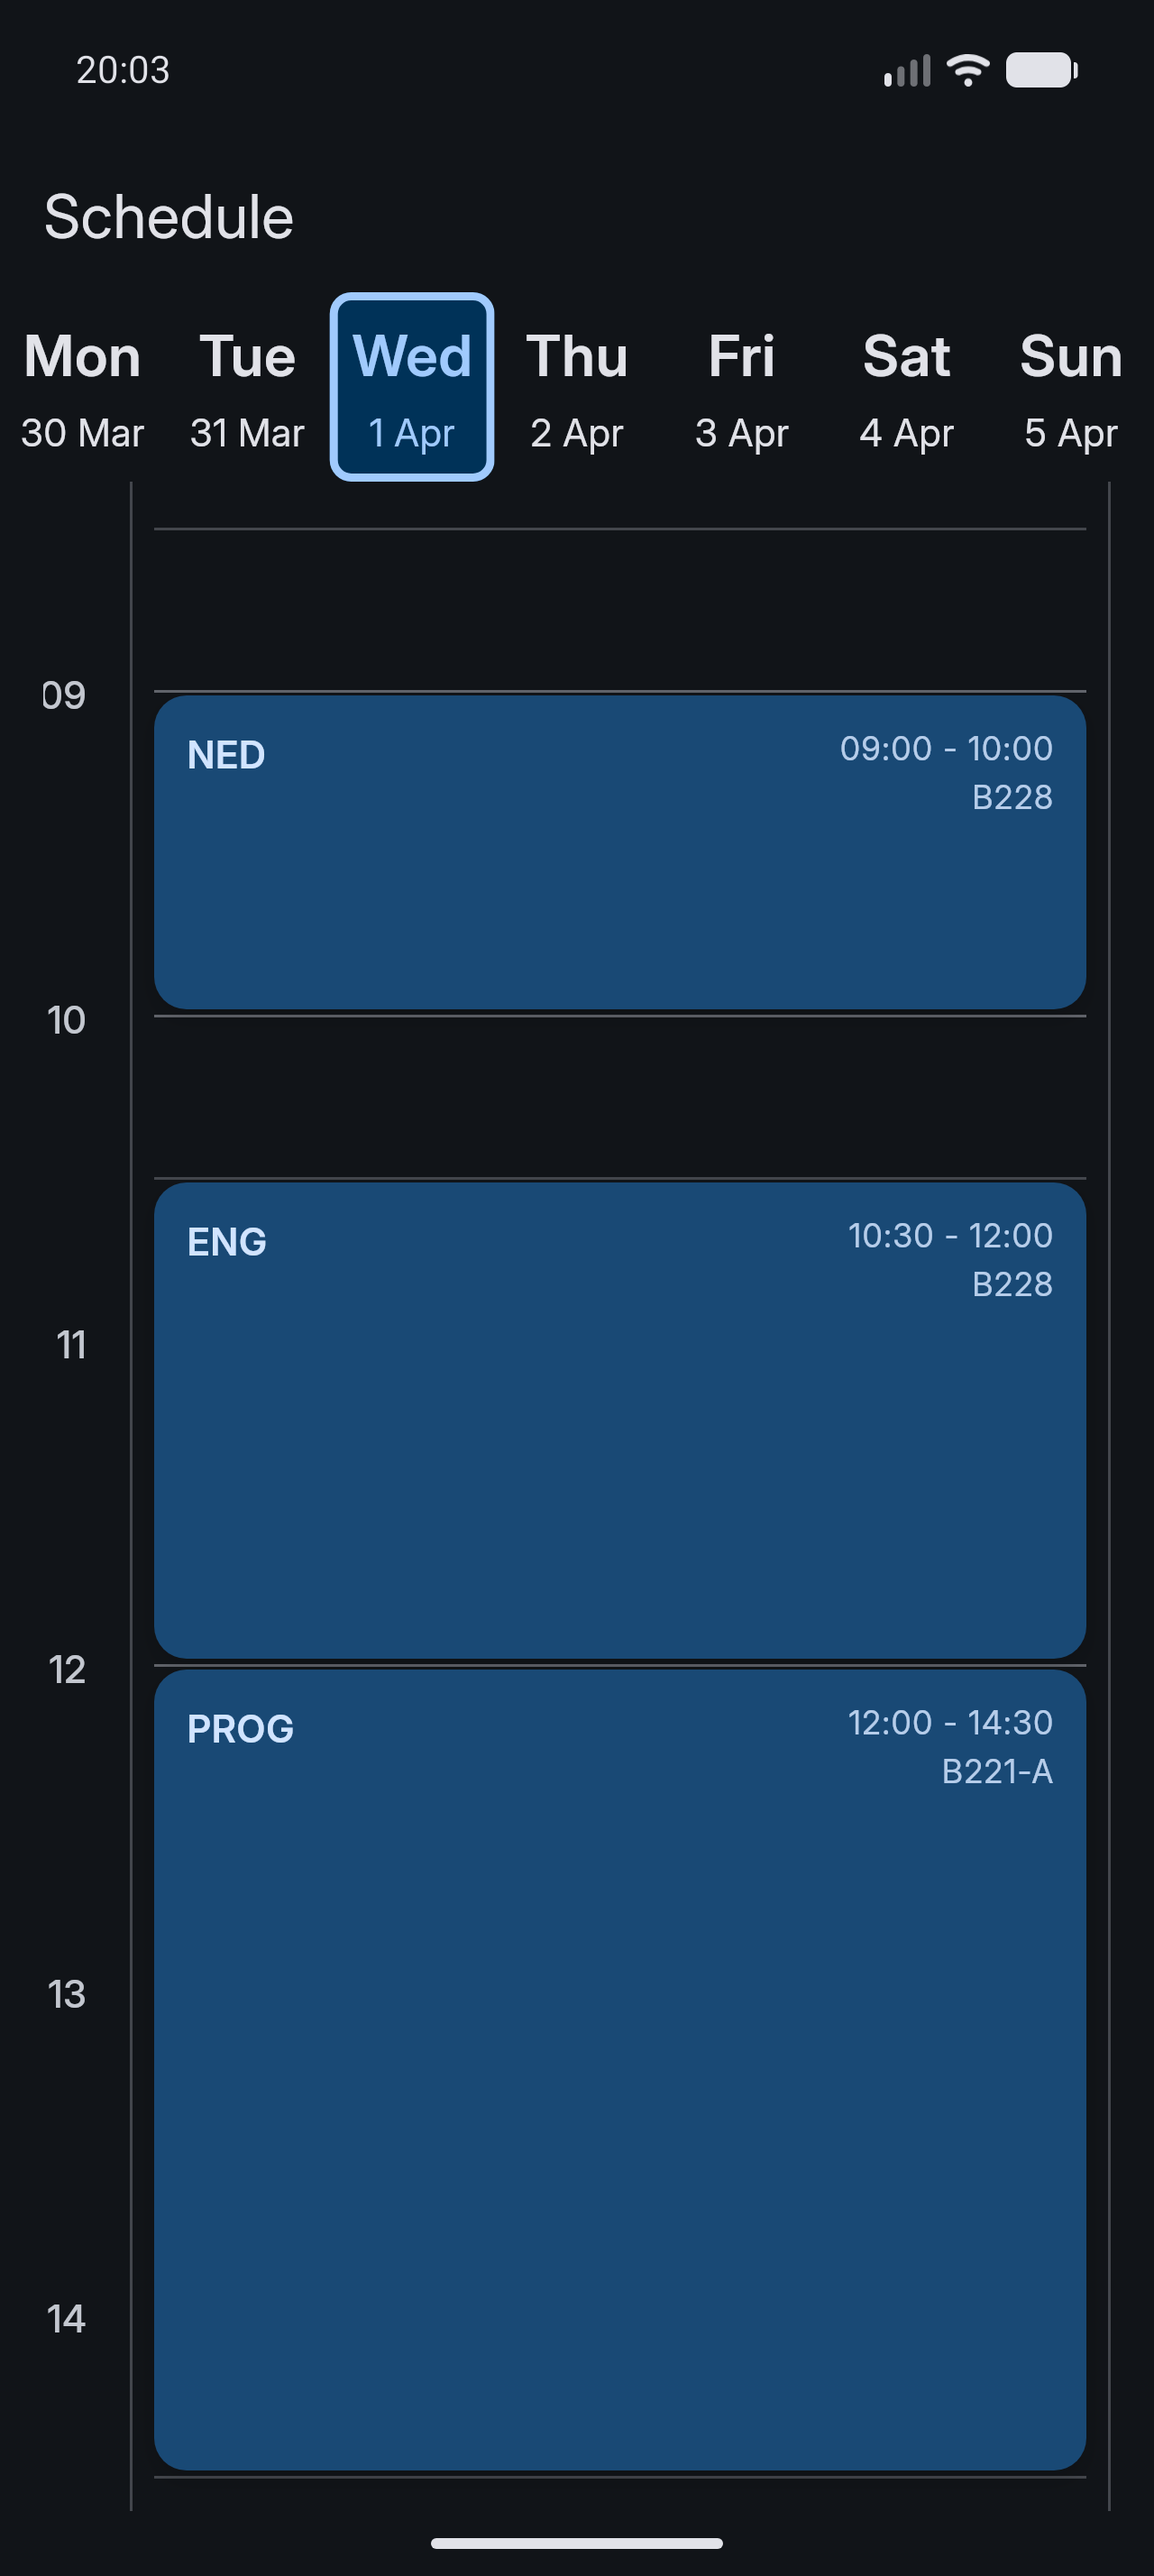
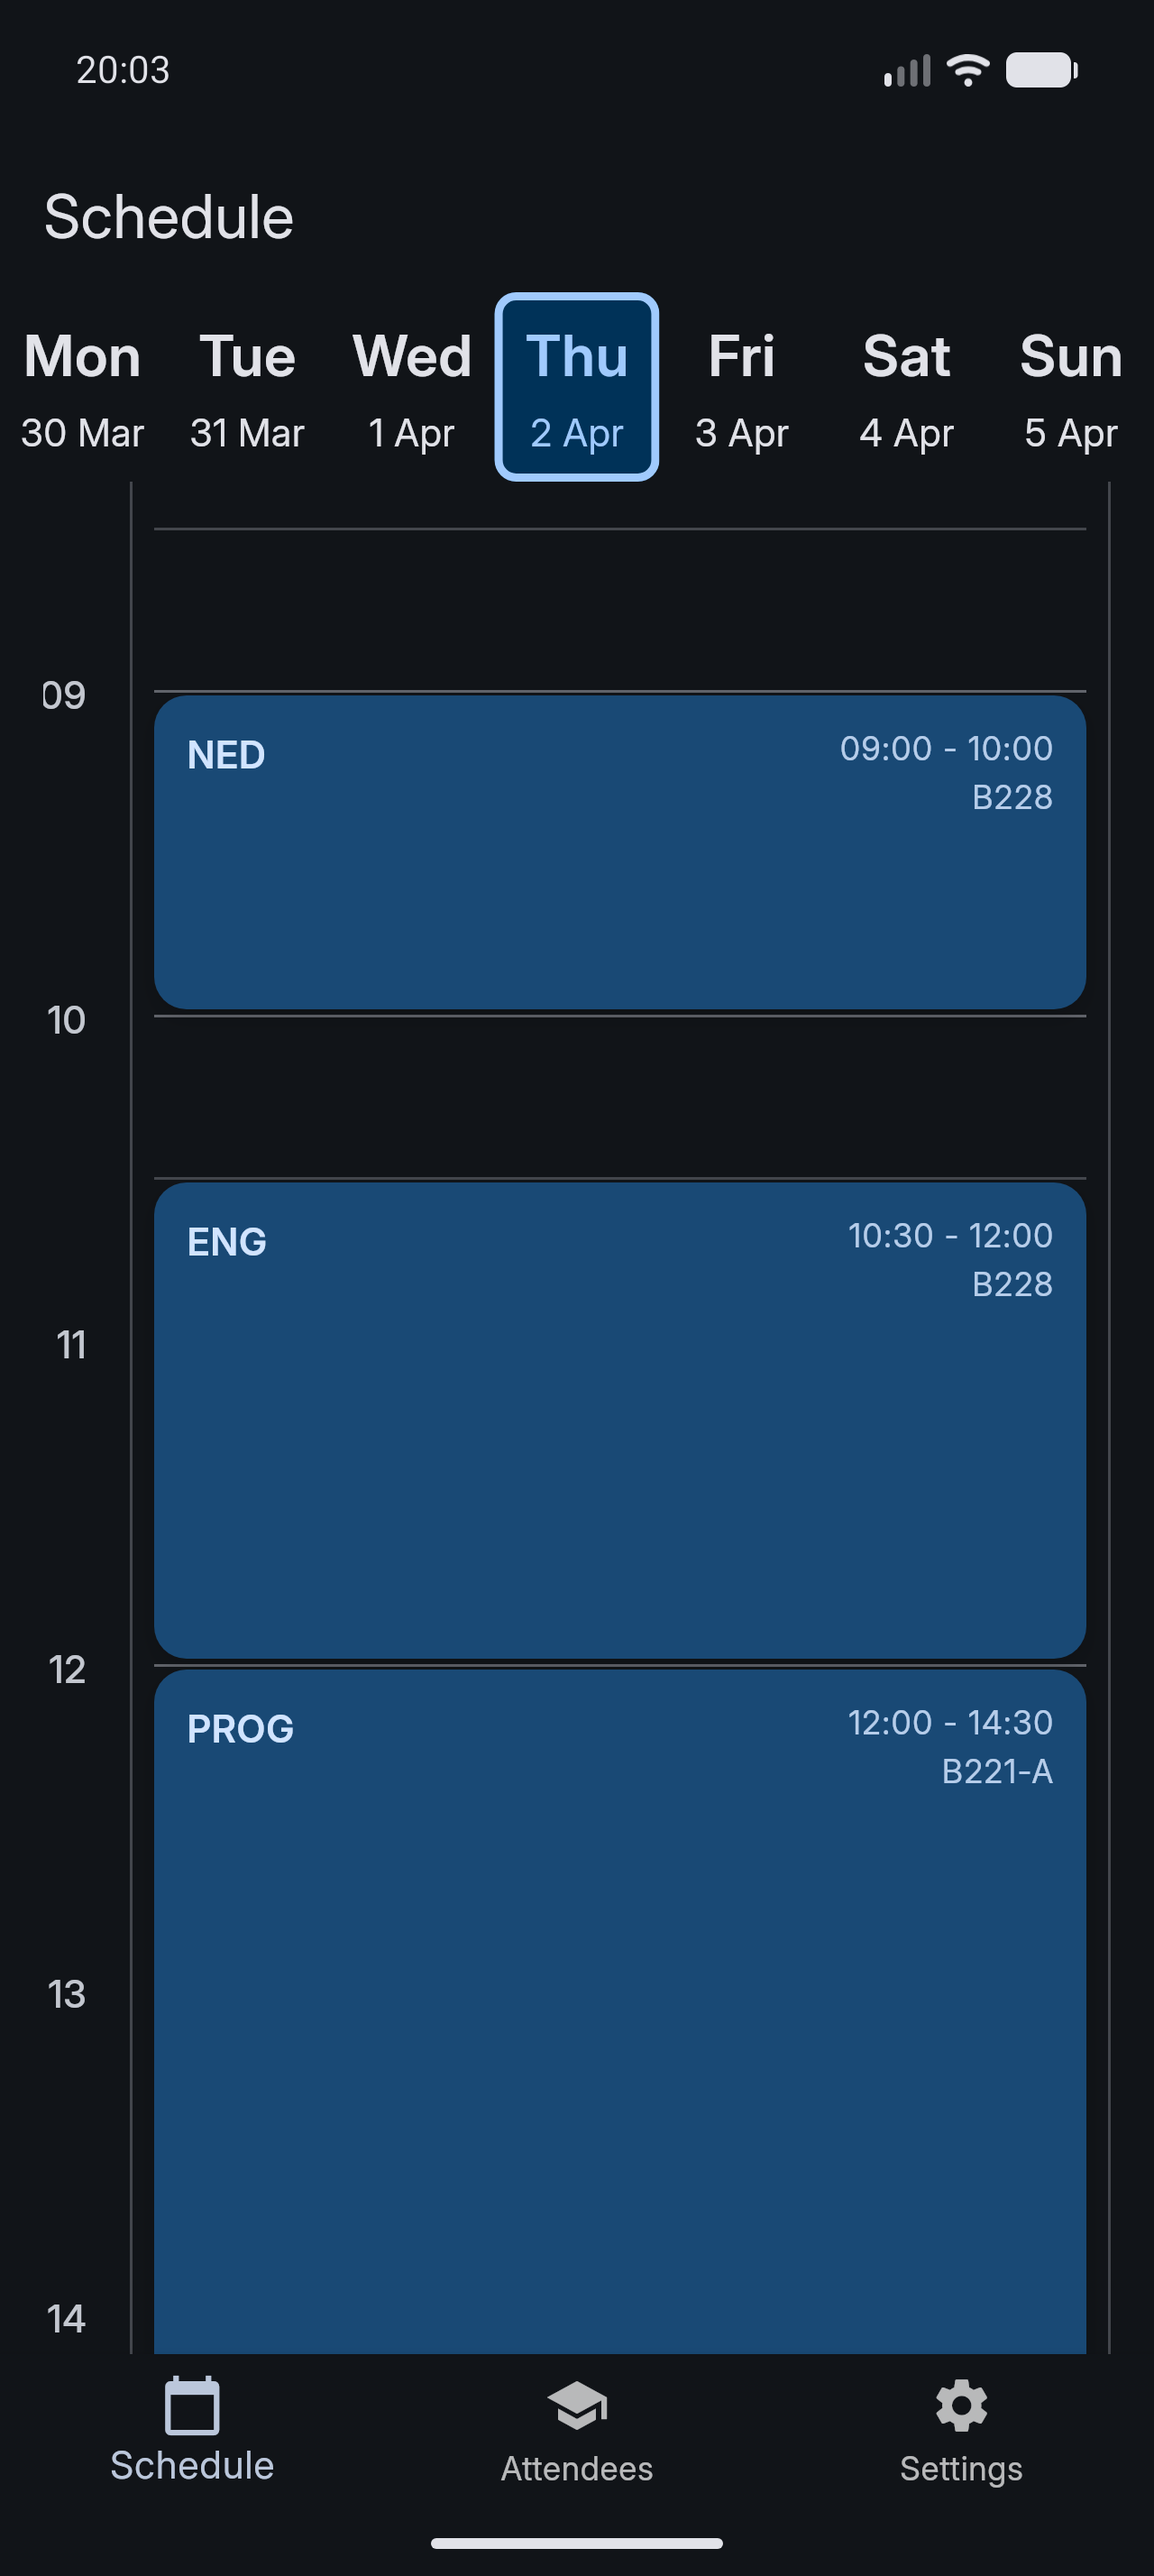
fix bottom bar in schreenshots

Changed region(s): [[0.0938, 0.9037, 0.9688, 0.966], [0.2812, 0.0935, 0.5938, 0.187]]

diff --git a/test/screenshot_test.dart b/test/screenshot_test.dart
@@ -60,11 +60,17 @@ void main() {
   Future<void> takeScreenshot(
     WidgetTester tester,
     Widget page,
-    String name,
-  ) async {
+    String name, {
+    int initialIndex = 0,
+  }) async {
     for (final target in _screenshotTargets()) {
       final device = target.device;
-      await _pumpScreenshotApp(tester, device, page);
+      await _pumpScreenshotApp(
+        tester,
+        device,
+        page,
+        initialIndex: initialIndex,
+      );
       await tester.expectScreenshot(device, name);
     }
   }
@@ -97,7 +103,12 @@ void main() {
         ),
       );
 
-      await _pumpScreenshotApp(tester, _screenshotTargets().first.device, page);
+      await _pumpScreenshotApp(
+        tester,
+        _screenshotTargets().first.device,
+        page,
+        initialIndex: 0,
+      );
 
       final finder = find.text('NED');
       await tester.tap(finder.first);
@@ -119,11 +130,12 @@ void main() {
           ),
         ),
         '3',
+        initialIndex: 1,
       );
     });
 
     testGoldens('Settings', (tester) async {
-      await takeScreenshot(tester, const SettingsPage(), '4');
+      await takeScreenshot(tester, const SettingsPage(), '4', initialIndex: 2);
     });
   });
 }
@@ -147,7 +159,12 @@ List<_ScreenshotTarget> _screenshotTargets() => const [
   ),
 ];
 
-Future<void> _pumpScreenshotApp(WidgetTester tester, ScreenshotDevice device, Widget home) async {
+Future<void> _pumpScreenshotApp(
+  WidgetTester tester,
+  ScreenshotDevice device,
+  Widget home, {
+  int initialIndex = 0,
+}) async {
   await tester.pumpWidget(
     ScreenshotApp(
       device: device,
@@ -158,7 +175,28 @@ Future<void> _pumpScreenshotApp(WidgetTester tester, ScreenshotDevice device, Wi
         ),
       ),
       themeMode: ThemeMode.dark,
-      home: home,
+      home: Scaffold(
+        appBar: AppBar(toolbarHeight: 0),
+        bottomNavigationBar: BottomNavigationBar(
+          currentIndex: initialIndex,
+          onTap: (index) {},
+          items: const [
+            BottomNavigationBarItem(
+              icon: Icon(Icons.calendar_today),
+              label: 'Schedule',
+            ),
+            BottomNavigationBarItem(
+              icon: Icon(Icons.school),
+              label: 'Attendees',
+            ),
+            BottomNavigationBarItem(
+              icon: Icon(Icons.settings),
+              label: 'Settings',
+            ),
+          ],
+        ),
+        body: home,
+      ),
     ),
   );
 
